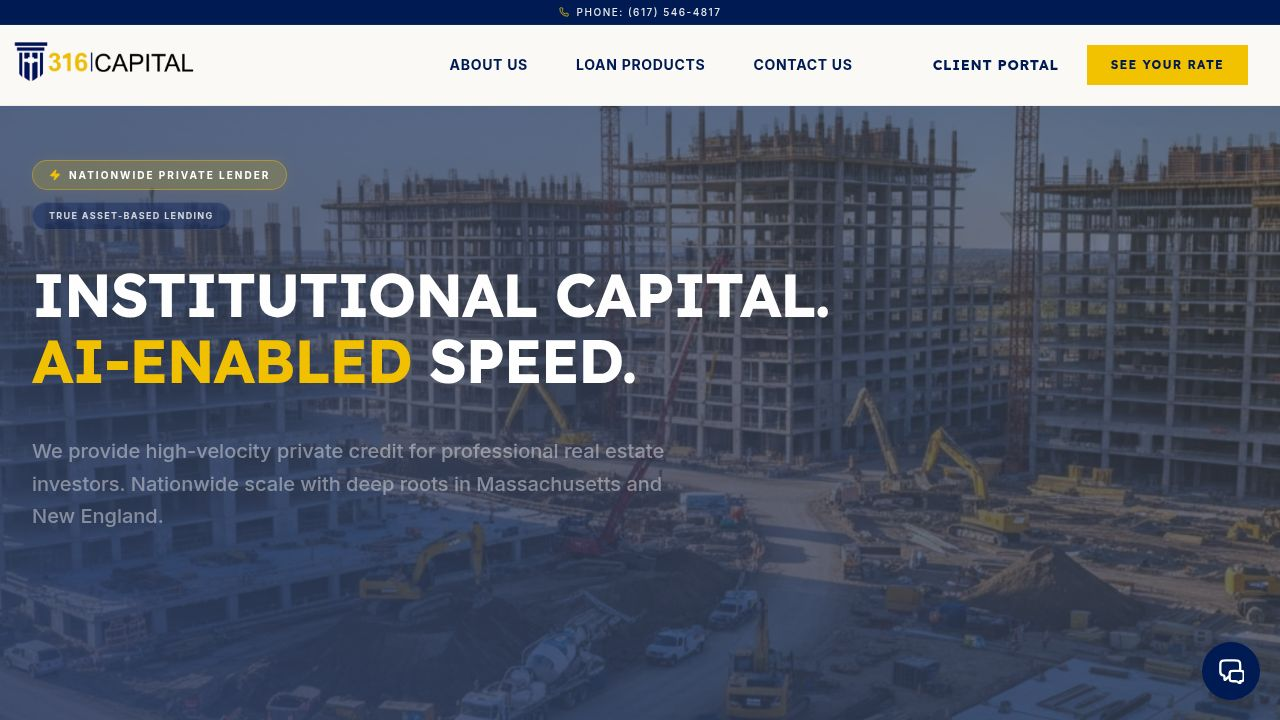
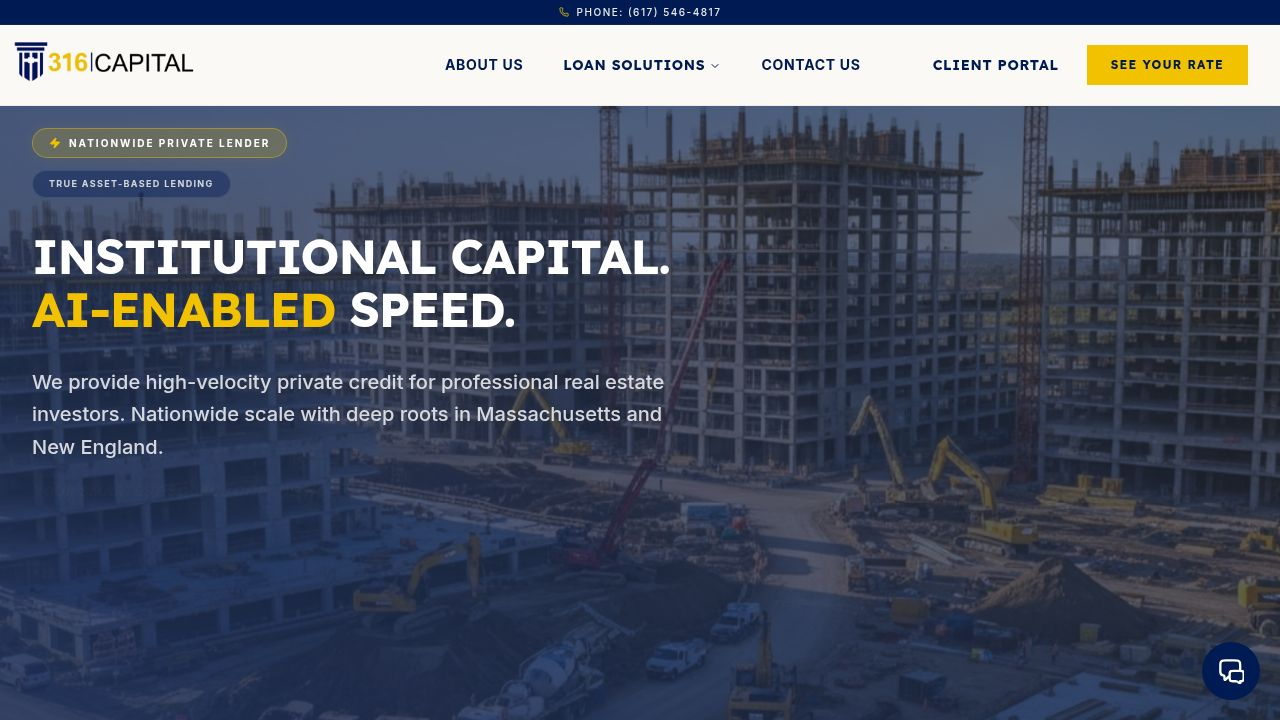
Add interactive dropdown for mobile loan solutions menu
Refactor mobile navigation to implement an accordion-style dropdown for "Loan Solutions" with expanded item details and improved styling.

Replit-Commit-Author: Agent
Replit-Commit-Session-Id: 96af8d86-2813-41f0-bb86-4a25da0c7d66
Replit-Commit-Checkpoint-Type: full_checkpoint
Replit-Commit-Event-Id: 0fa64757-9614-4af6-ab50-d0a82bf21416
Replit-Commit-Screenshot-Url: https://storage.googleapis.com/screenshot-production-us-central1/8a4d1e78-76b3-4b1b-9b1b-6099a4dc3aaa/96af8d86-2813-41f0-bb86-4a25da0c7d66/VT8QmG4
Replit-Helium-Checkpoint-Created: true

diff --git a/client/src/components/layout/navbar.tsx b/client/src/components/layout/navbar.tsx
@@ -38,6 +38,7 @@ const solutions = [
 
 export function Navbar() {
   const [isOpen, setIsOpen] = useState(false);
+  const [isSolutionsOpen, setIsSolutionsOpen] = useState(false);
   const [hasVisited, setHasVisited] = useState(false);
   const [location] = useLocation();
 
@@ -157,29 +158,46 @@ export function Navbar() {
 
       {/* Mobile Menu */}
       {isOpen && (
-        <div className="md:hidden bg-cream-50 border-b border-navy-950/5">
-          <div className="px-2 pt-2 pb-3 space-y-1 sm:px-3">
-            <div className="px-3 py-2 text-xs font-black uppercase tracking-[0.2em] text-[#001A54]/40 border-b border-navy-950/5 mb-2">Loan Solutions</div>
-            {solutions.map((item) => (
-              <Link 
-                key={item.href}
-                href={item.href}
-                className="block px-6 py-3 text-base font-bold text-[#001A54] hover:bg-white/50 border-l-2 border-transparent hover:border-gold-500 transition-all uppercase tracking-tight"
-              >
-                {item.title}
-              </Link>
-            ))}
+        <div className="md:hidden bg-cream-50 border-b border-navy-950/5 overflow-y-auto max-h-[calc(100vh-80px)]">
+          <div className="px-2 pt-2 pb-6 space-y-1 sm:px-3">
+            <button
+              onClick={() => setIsSolutionsOpen(!isSolutionsOpen)}
+              className="flex items-center justify-between w-full px-3 py-3 text-base font-bold text-[#001A54] hover:bg-white/50 transition-all uppercase tracking-wider"
+            >
+              <span>Loan Solutions</span>
+              <ChevronDown 
+                className={cn(
+                  "h-4 w-4 text-gold-500 transition-transform duration-300",
+                  isSolutionsOpen && "rotate-180"
+                )} 
+              />
+            </button>
+            
+            {isSolutionsOpen && (
+              <div className="bg-navy-950/5 py-2 space-y-1">
+                {solutions.map((item) => (
+                  <Link 
+                    key={item.href}
+                    href={item.href}
+                    className="block px-8 py-3 text-sm font-bold text-[#001A54] hover:bg-gold-500 hover:text-white transition-all uppercase tracking-tight"
+                  >
+                    {item.title}
+                  </Link>
+                ))}
+              </div>
+            )}
+
             <div className="h-px bg-navy-950/5 my-2" />
-            <Link href="/about" className="block px-3 py-2 text-base font-medium text-[#001A54] hover:bg-white/50 uppercase tracking-wider">About Us</Link>
-            <a href="/#contact" className="block px-3 py-2 text-base font-medium text-[#001A54] hover:bg-white/50 uppercase tracking-wider">Contact Us</a>
+            <Link href="/about" className="block px-3 py-3 text-base font-bold text-[#001A54] hover:bg-white/50 uppercase tracking-wider">About Us</Link>
+            <a href="/#contact" className="block px-3 py-3 text-base font-bold text-[#001A54] hover:bg-white/50 uppercase tracking-wider">Contact Us</a>
             
             <a 
               href="tel:+16175464817"
-              className="flex items-center space-x-3 px-3 py-4 bg-navy-950 text-white mt-4"
+              className="flex items-center space-x-3 px-4 py-5 bg-navy-950 text-white mt-6 group transition-colors hover:bg-navy-900"
             >
-              <Phone className="w-5 h-5 text-gold-500" />
+              <Phone className="w-5 h-5 text-gold-500 group-hover:scale-110 transition-transform" />
               <div className="flex flex-col">
-                <span className="text-[10px] uppercase tracking-widest text-gold-500/80 font-bold">Call Us Now</span>
+                <span className="text-[10px] uppercase tracking-widest text-gold-500/80 font-black">Call Our Capital Desk</span>
                 <span className="text-lg font-bold tracking-tight">+1 (617) 546-4817</span>
               </div>
             </a>
